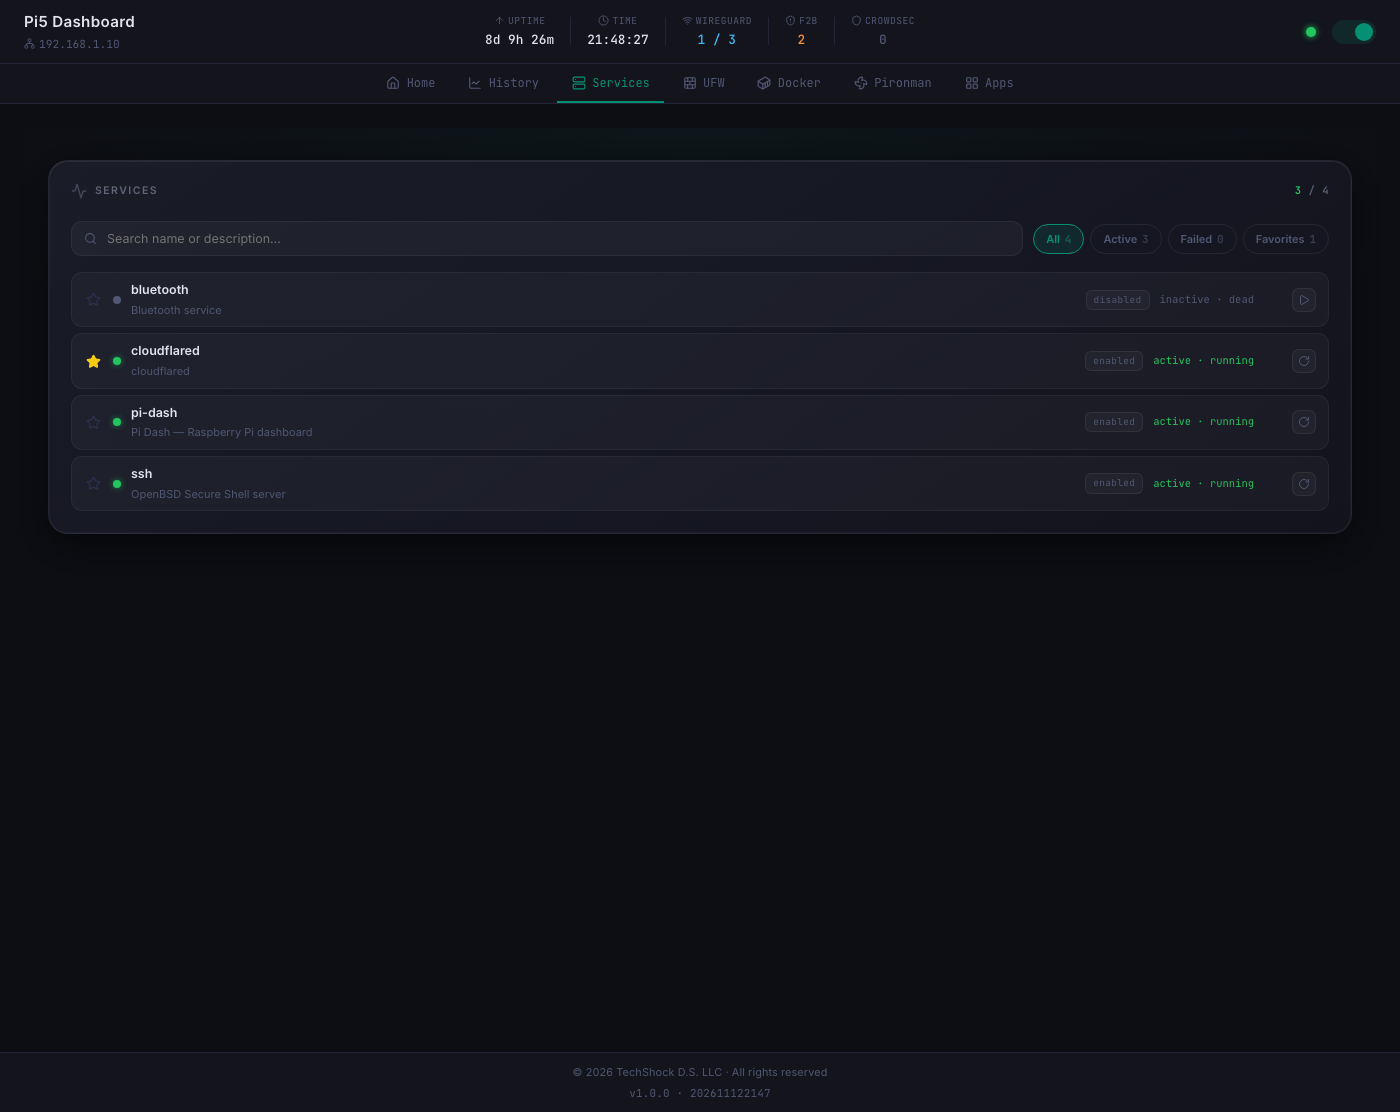
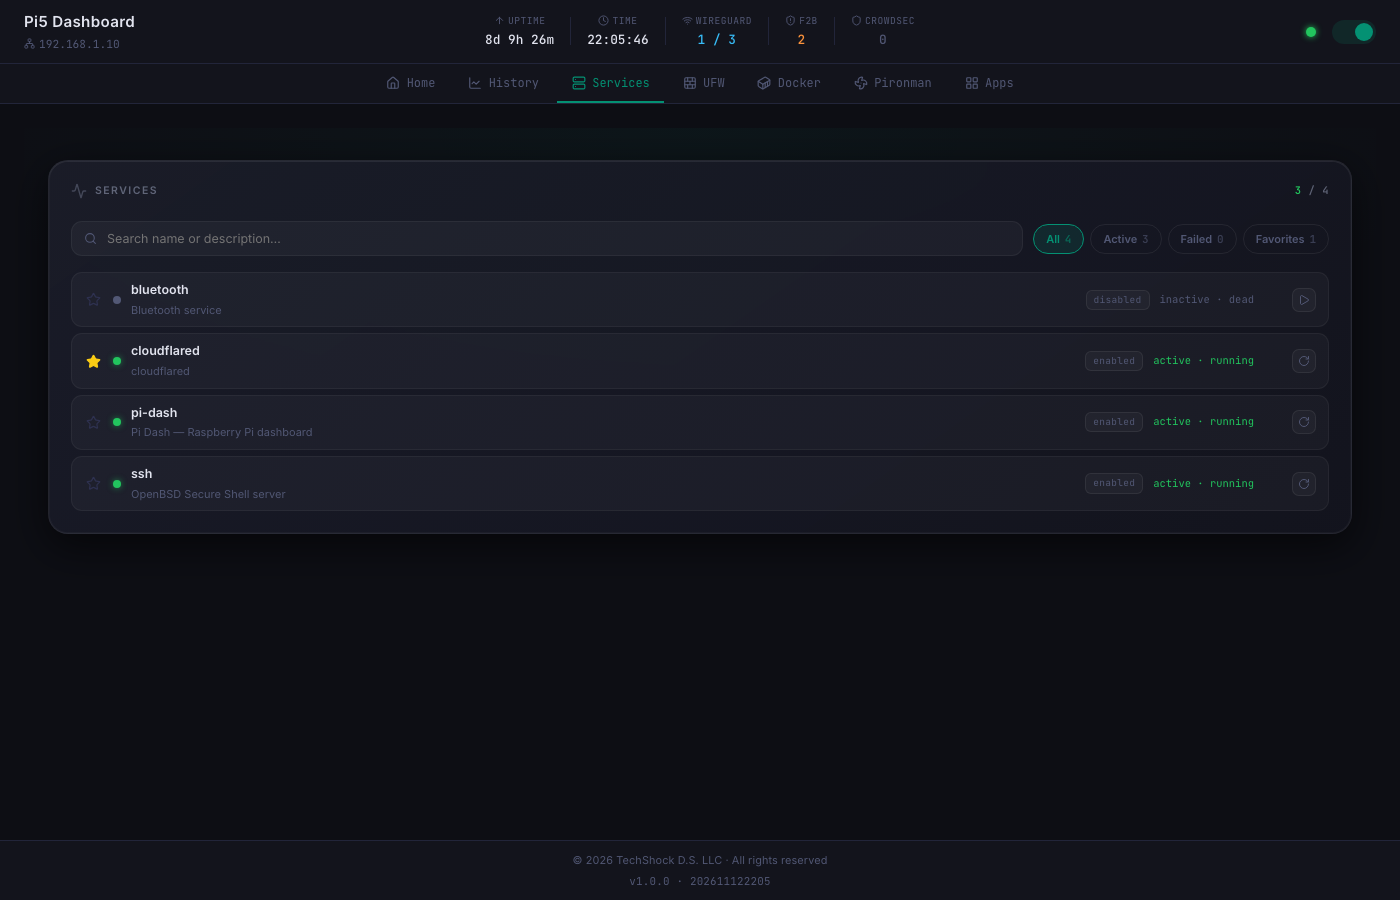
fix: footer no longer pushed below the fold on short pages
Each tab had min-height: 100vh on top of the header, nav and footer, so
every page scrolled ~200px even when nearly empty. The page now fills
only the space between nav and footer (100dvh on phones).
docs: screenshots retaken without the dead space

diff --git a/web/src/layouts/DefaultLayout.vue b/web/src/layouts/DefaultLayout.vue
@@ -198,6 +198,7 @@ function toggle() {
 <style scoped>
 .layout {
   min-height: 100vh;
+  min-height: 100dvh; /* phones: the visible height, not counting the URL bar */
   display: flex;
   flex-direction: column;
   background-color: var(--bg);
@@ -477,6 +478,8 @@ function toggle() {
 
 .content {
   flex: 1;
+  display: flex;
+  flex-direction: column;
   padding: 1.5rem;
   overflow-x: hidden; /* keeps the slide animation from adding a scrollbar */
 }

diff --git a/web/src/style.css b/web/src/style.css
@@ -196,7 +196,9 @@ code, .mono {
   align-content: flex-start;
   gap: 20px;
   padding: 32px 24px;
-  min-height: 100vh;
+  /* Fills what's left between the nav and the footer — not a whole screen of
+     its own, which pushed the footer below the fold on every tab. */
+  flex: 1;
   background: radial-gradient(
       ellipse 80% 60% at 50% 0%,
       rgba(4, 145, 115, 0.06) 0%,
